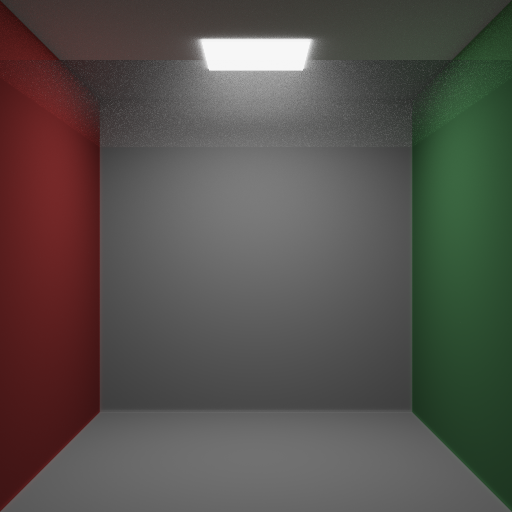
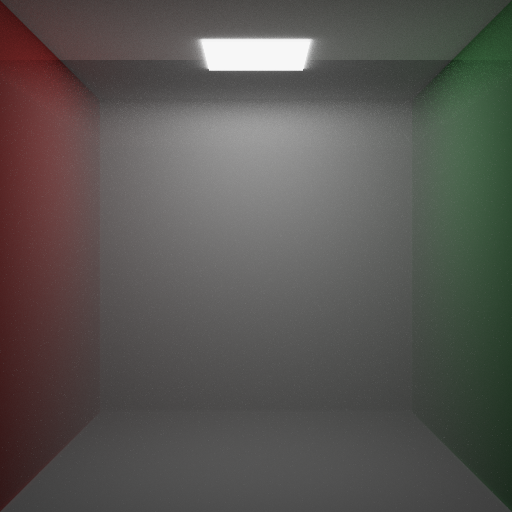
PT-fog: fix aabb_box inverted winding + retune fog density
The aabb_box helper that emits the fog volume mesh was emitting all
six faces with CW-from-outside vertex order — geometric normals all
pointed INWARD. record_hit's `dot(geom_n, ray.dir)` then read every
camera ray hitting the fog box's front face as "back face" and
toggled current_medium the wrong way. Net effect: Beer-Lambert barely
fired (only across the 0.01-unit gap between the box back face and
the room back wall), so the rendered fog scene's walls looked
unattenuated and the fog read like a thin angular slice near the
light rather than a room-filling volume.

Fixed by rewriting every face to CCW-from-outside vertex order.
Locked with `aabb_box_geometric_normals_point_outward` in
examples/gen_cornell.rs's test module — cross product of the two
edges in vertex order must dot negatively with the vector from any
triangle vertex to the box centroid.

With the winding fixed, retuned the fog density: σ_a = 0.05,
σ_s = 0.5 (mean free path ≈ 1.8 unit; Beer-Lambert across the 2-unit
room ≈ 33% direct transmittance). Walls now visibly dim, the room
fills with grey haze, and the ceiling-light glow reads as a soft
volumetric cone rather than a sharp 2D fan. New 512² / 1024 spp
reference render lands in data/output/cornell_foggy_room_reference.

Plan 0005 gets a second "bugs landed-and-fixed" entry alongside the
fog-top-vs-light coincidence — both are the kind of mistake whose
rendered output looks superficially plausible until you check the
[…]

diff --git a/examples/gen_cornell.rs b/examples/gen_cornell.rs
@@ -241,13 +241,15 @@ fn main() {
         emission: [0.0, 0.0, 0.0],
         metallic: 0.0,
         ior: 0.0,
-        // Thin fog. Mean free path ≈ 1/(σ_a + σ_s) = 1/0.21 ≈ 4.8
-        // units. Room is ~2 units across, so most rays cross
-        // unscattered — the visible scattering rides on top of an
-        // otherwise crisp Cornell render and reads as a god-ray
-        // glow around the ceiling light.
-        absorption: [0.01, 0.01, 0.01],
-        scattering: [0.2, 0.2, 0.2],
+        // Moderate fog. Mean free path = 1 / (σ_a + σ_s) ≈ 1.8
+        // unit. Beer-Lambert across the 2-unit room gives ≈ 33%
+        // direct transmittance, so walls visibly dim but stay
+        // recognisable; the remaining ~67% of camera rays scatter
+        // inside the fog volume and pick up in-scattered light
+        // from the ceiling cone. Scattering ten times absorption
+        // keeps the room bright without a smoke-dense feel.
+        absorption: [0.05, 0.05, 0.05],
+        scattering: [0.5, 0.5, 0.5],
     };
     // Sized inside the Cornell room (interior is x∈[-1,1], y∈[0,2],
     // z∈[-1,1]). Pulled in by a hair to avoid coincident-surface
@@ -443,12 +445,19 @@ fn triangulate(
 /// Vertex count: `10 * 4^level + 2`. Triangle count: `20 * 4^level`.
 /// Level 5 = 10,242 vertices / 20,480 triangles — bunny territory
 /// without an external download.
-/// Closed axis-aligned box as 8 vertices + 36 indices. Outward-
-/// facing winding so the normals point away from the interior — the
-/// path tracer's `record_hit` uses geometric-normal-versus-ray to
-/// distinguish front/back faces, which is how PT-fog's medium-
-/// boundary detection picks up the "we're inside / we're outside"
-/// transition.
+/// Closed axis-aligned box as 8 vertices + 36 indices. Triangle
+/// winding is CCW-from-the-outside on every face so the geometric
+/// normal computed by `record_hit` (the cross product of two edges
+/// in vertex order) points OUTWARD. This is load-bearing for
+/// PT-fog: the path tracer's medium-boundary detection toggles
+/// `current_medium` based on `Hit::front_face`, which is derived
+/// from `dot(geom_n, ray.dir)`. If the geometric normals point
+/// inward, a camera ray entering the box reads as "exiting the
+/// medium" and the volume attenuation never fires.
+///
+/// Vertex index encoding (sign of each coordinate):
+///   0 = ---, 1 = +--, 2 = ++-, 3 = -+-,
+///   4 = --+, 5 = +-+, 6 = +++, 7 = -++
 fn aabb_box(min: [f32; 3], max: [f32; 3]) -> (Vec<[f32; 3]>, Vec<[f32; 3]>, Vec<u32>) {
     let p = [
         [min[0], min[1], min[2]], // 0: ---
@@ -460,20 +469,19 @@ fn aabb_box(min: [f32; 3], max: [f32; 3]) -> (Vec<[f32; 3]>, Vec<[f32; 3]>, Vec<
         [max[0], max[1], max[2]], // 6: +++
         [min[0], max[1], max[2]], // 7: -++
     ];
-    // Each face's two triangles. CCW from the outside.
     let tris: Vec<u32> = vec![
-        // -x face (left), normal = -x. Outward order: 0, 3, 7, 4.
-        0, 3, 7,  0, 7, 4,
-        // +x face (right), normal = +x. Outward order: 1, 5, 6, 2.
-        1, 5, 6,  1, 6, 2,
-        // -y face (bottom). Outward order: 0, 4, 5, 1.
-        0, 4, 5,  0, 5, 1,
-        // +y face (top). Outward order: 3, 2, 6, 7.
-        3, 2, 6,  3, 6, 7,
-        // -z face (back). Outward order: 0, 1, 2, 3.
-        0, 1, 2,  0, 2, 3,
-        // +z face (front). Outward order: 4, 7, 6, 5.
-        4, 7, 6,  4, 6, 5,
+        // -x face (normal -x). CCW viewed from -x.
+        0, 7, 3,  0, 4, 7,
+        // +x face (normal +x). CCW viewed from +x.
+        1, 2, 6,  1, 6, 5,
+        // -y face (normal -y, bottom). CCW viewed from -y.
+        0, 1, 5,  0, 5, 4,
+        // +y face (normal +y, top). CCW viewed from +y.
+        2, 3, 7,  2, 7, 6,
+        // -z face (normal -z, back). CCW viewed from -z.
+        0, 3, 2,  0, 2, 1,
+        // +z face (normal +z, front). CCW viewed from +z.
+        4, 5, 6,  4, 6, 7,
     ];
     let positions: Vec<[f32; 3]> = p.to_vec();
     // Flat normals don't matter for a medium-volume boundary (the
@@ -483,6 +491,56 @@ fn aabb_box(min: [f32; 3], max: [f32; 3]) -> (Vec<[f32; 3]>, Vec<[f32; 3]>, Vec<
     // BSDF dispatch never reads it for medium-volume materials.
     let normals: Vec<[f32; 3]> = positions.iter().map(|_| [0.0, 1.0, 0.0]).collect();
     (positions, normals, tris)
+}
+
+#[cfg(test)]
+mod tests {
+    use super::*;
+
+    fn cross(a: [f32; 3], b: [f32; 3]) -> [f32; 3] {
+        [
+            a[1] * b[2] - a[2] * b[1],
+            a[2] * b[0] - a[0] * b[2],
+            a[0] * b[1] - a[1] * b[0],
+        ]
+    }
+    fn sub(a: [f32; 3], b: [f32; 3]) -> [f32; 3] {
+        [a[0] - b[0], a[1] - b[1], a[2] - b[2]]
+    }
+    fn dot(a: [f32; 3], b: [f32; 3]) -> f32 {
+        a[0] * b[0] + a[1] * b[1] + a[2] * b[2]
+    }
+
+    #[test]
+    fn aabb_box_geometric_normals_point_outward() {
+        // Reproduction of the PT-fog gotcha: every face's geometric
+        // normal must point AWAY from the box centroid, otherwise
+        // path tracer reads boundary crossings backwards and
+        // Beer-Lambert silently never fires.
+        let min = [-2.0_f32, -3.0, -4.0];
+        let max = [5.0_f32, 1.0, 2.0];
+        let centroid = [
+            0.5 * (min[0] + max[0]),
+            0.5 * (min[1] + max[1]),
+            0.5 * (min[2] + max[2]),
+        ];
+        let (positions, _normals, tris) = aabb_box(min, max);
+        assert_eq!(tris.len() % 3, 0);
+        assert_eq!(tris.len() / 3, 12, "box must have 12 triangles (6 faces × 2)");
+        for tri in tris.chunks(3) {
+            let v0 = positions[tri[0] as usize];
+            let v1 = positions[tri[1] as usize];
+            let v2 = positions[tri[2] as usize];
+            let n = cross(sub(v1, v0), sub(v2, v0));
+            // From any triangle vertex to centroid → "inward" direction.
+            // Outward normal must have negative dot with that.
+            let inward = sub(centroid, v0);
+            assert!(
+                dot(n, inward) < 0.0,
+                "triangle {tri:?} has inward-pointing normal (geom_n={n:?}, inward={inward:?})",
+            );
+        }
+    }
 }
 
 fn icosphere(

diff --git a/plans/0005-participating-media.md b/plans/0005-participating-media.md
@@ -180,14 +180,29 @@ god-rays Cornell room is the visual.
       shader. Existing scenes (Cornell quads, glass bunny, glass
       sphere, metal bunny, textured floor) all render unchanged.
 
-**Why the fog-top-equals-light-y bug bit us.** The first foggy
-scene had the fog box top at y=1.99 — exactly where the ceiling
-light tile sits. Coincident triangles cause `trace_scene` to
-return either the light or the fog top non-deterministically; the
-shadow ray from the ceiling could miss the light through the fog
-boundary, dropping NEE radiance and leaving the ceiling around the
-light reading as black. Moving the fog top to y=1.7 cleared up the
-god-rays immediately.
+**Two bugs landed-and-fixed during PT-fog**, both worth noting
+because the rendered images looked plausible right up until you
+compared them to what the math demanded:
+
+1. **Coincident fog-top and ceiling-light at y=1.99.** Shadow rays
+   from the ceiling intermittently missed the light because
+   `trace_scene` could return either the light tile or the fog box
+   top non-deterministically. Fixed by lowering the fog top to
+   y=1.7 — leaves a clean air gap around the light.
+
+2. **`aabb_box` had inverted winding on every face.** Each face was
+   emitted with CW-from-outside vertex order, so the geometric
+   normals all pointed *inward*. `record_hit`'s
+   `dot(geom_n, ray.dir)` then read every camera ray hitting the
+   front face of the fog box as "back face" and toggled
+   `current_medium` in the wrong direction. Net effect: Beer-
+   Lambert barely fired (only across the 0.01-unit gap between
+   the fog box's back face and the room's back wall), so walls
+   looked unattenuated and the fog read like a thin angular slice
+   near the light rather than a room-filling volume. Fixed the
+   winding to CCW-from-outside everywhere; locked it with
+   `aabb_box_geometric_normals_point_outward` in
+   `examples/gen_cornell.rs`'s test module.
 
 ## Open questions
 